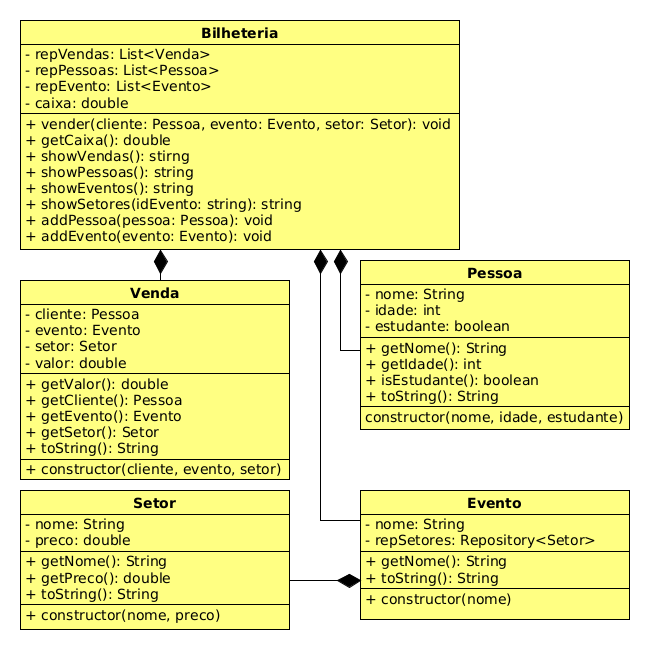
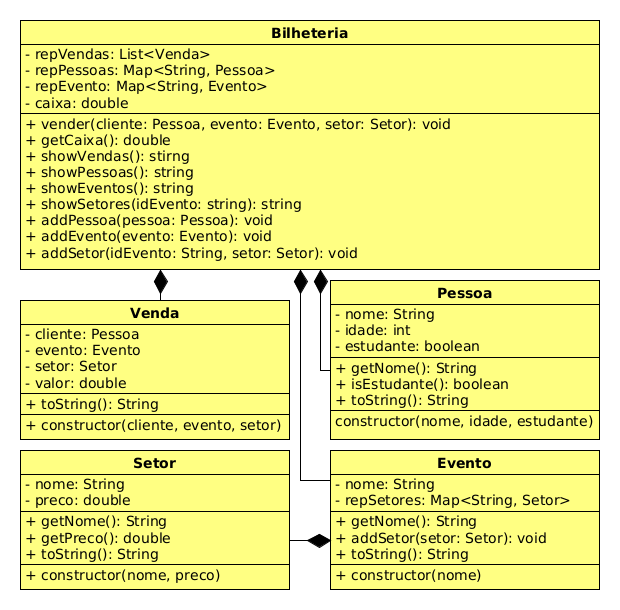
feat: created non-interactive main

diff --git a/base/028/Readme.md b/base/028/Readme.md
@@ -4,6 +4,8 @@
 <!--TOC_BEGIN-->
 - [Bilheteria](#bilheteria)
   - [Requisitos](#requisitos)
+  - [Diagrama](#diagrama)
+  - [Main não interativa](#main-não-interativa)
 
 <!--TOC_END-->
 
@@ -78,3 +80,41 @@ R$ 35,00
 $end
 ```
 ***
+## Diagrama
+
+![](diagrama.png)
+ 
+---
+
+## Main não interativa
+
+```java
+Bilheteria bilheteria = new Bilheteria();
+bilheteria.addPessoa(new Pessoa("steve", 32, false));
+bilheteria.addPessoa(new Pessoa("steve", 32, false));
+bilheteria.addPessoa(new Pessoa("tony", 43, true));
+bilheteria.addPessoa(new Pessoa("steve", 24, true));
+//fail: pessoa steve ja existe
+bilheteria.showPessoas();
+//[tony, 43, sim],
+//[steve, 32, nao]
+
+bilheteria.addEvento(new Evento("orappa"));
+bilheteria.addSetor("orappa", new Setor("front", 70f));
+bilheteria.addSetor("orappa", new Setor("pista", 35));
+bilheteria.showEvento();
+//[orappa]
+bilheteria.showSetor("orappa");
+//[front],
+//[pista]
+
+bilheteria.vender("tony", "orappa", "front");
+bilheteria.vender("steve", "orappa", "camarote");
+//fail: setor camarote nao existe
+
+bilheteria.showVenda();
+//[tony, orappa, front, 35,00]
+
+bilheteria.showCaixa();
+//R$ 35,00
+```
